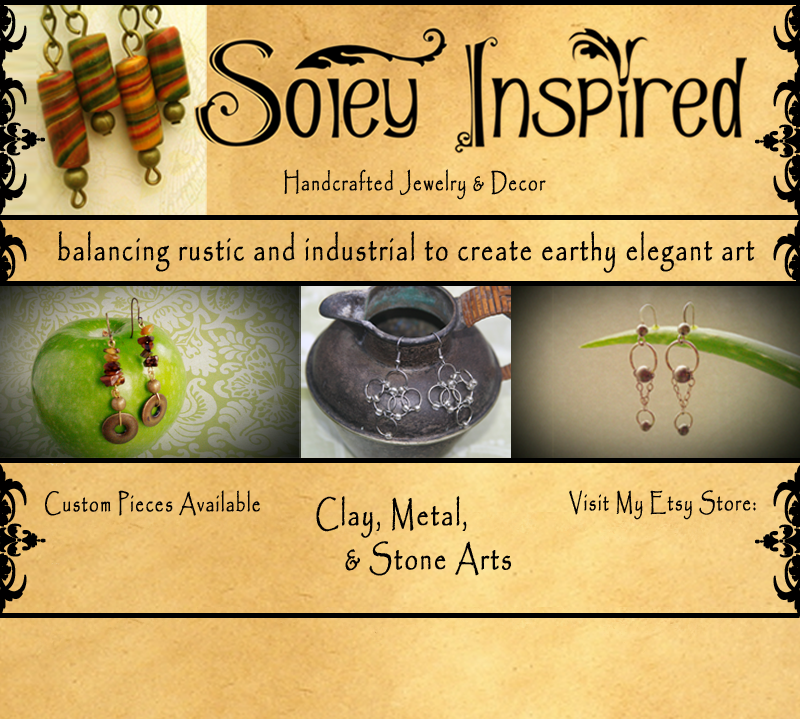
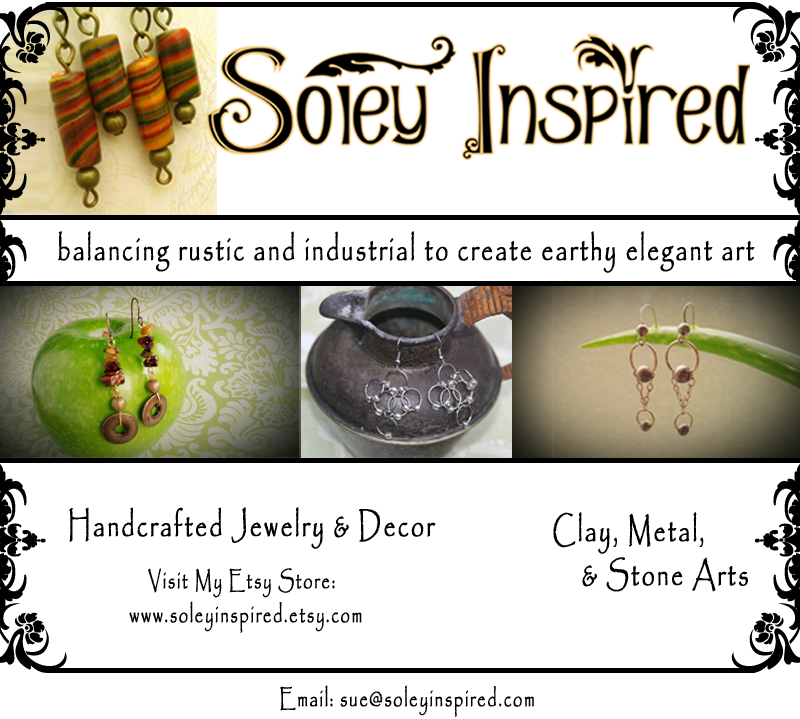
changed home page image. fixed style sheet

diff --git a/public/style.css b/public/style.css
@@ -8,8 +8,7 @@ u {
 }
 
 body {
-  background-image: url('webbackground.gif')
-  background: #000000;
+  background-image: url('webbackground.gif');
   padding: 0;
   border: 0;
   outline: 0;
